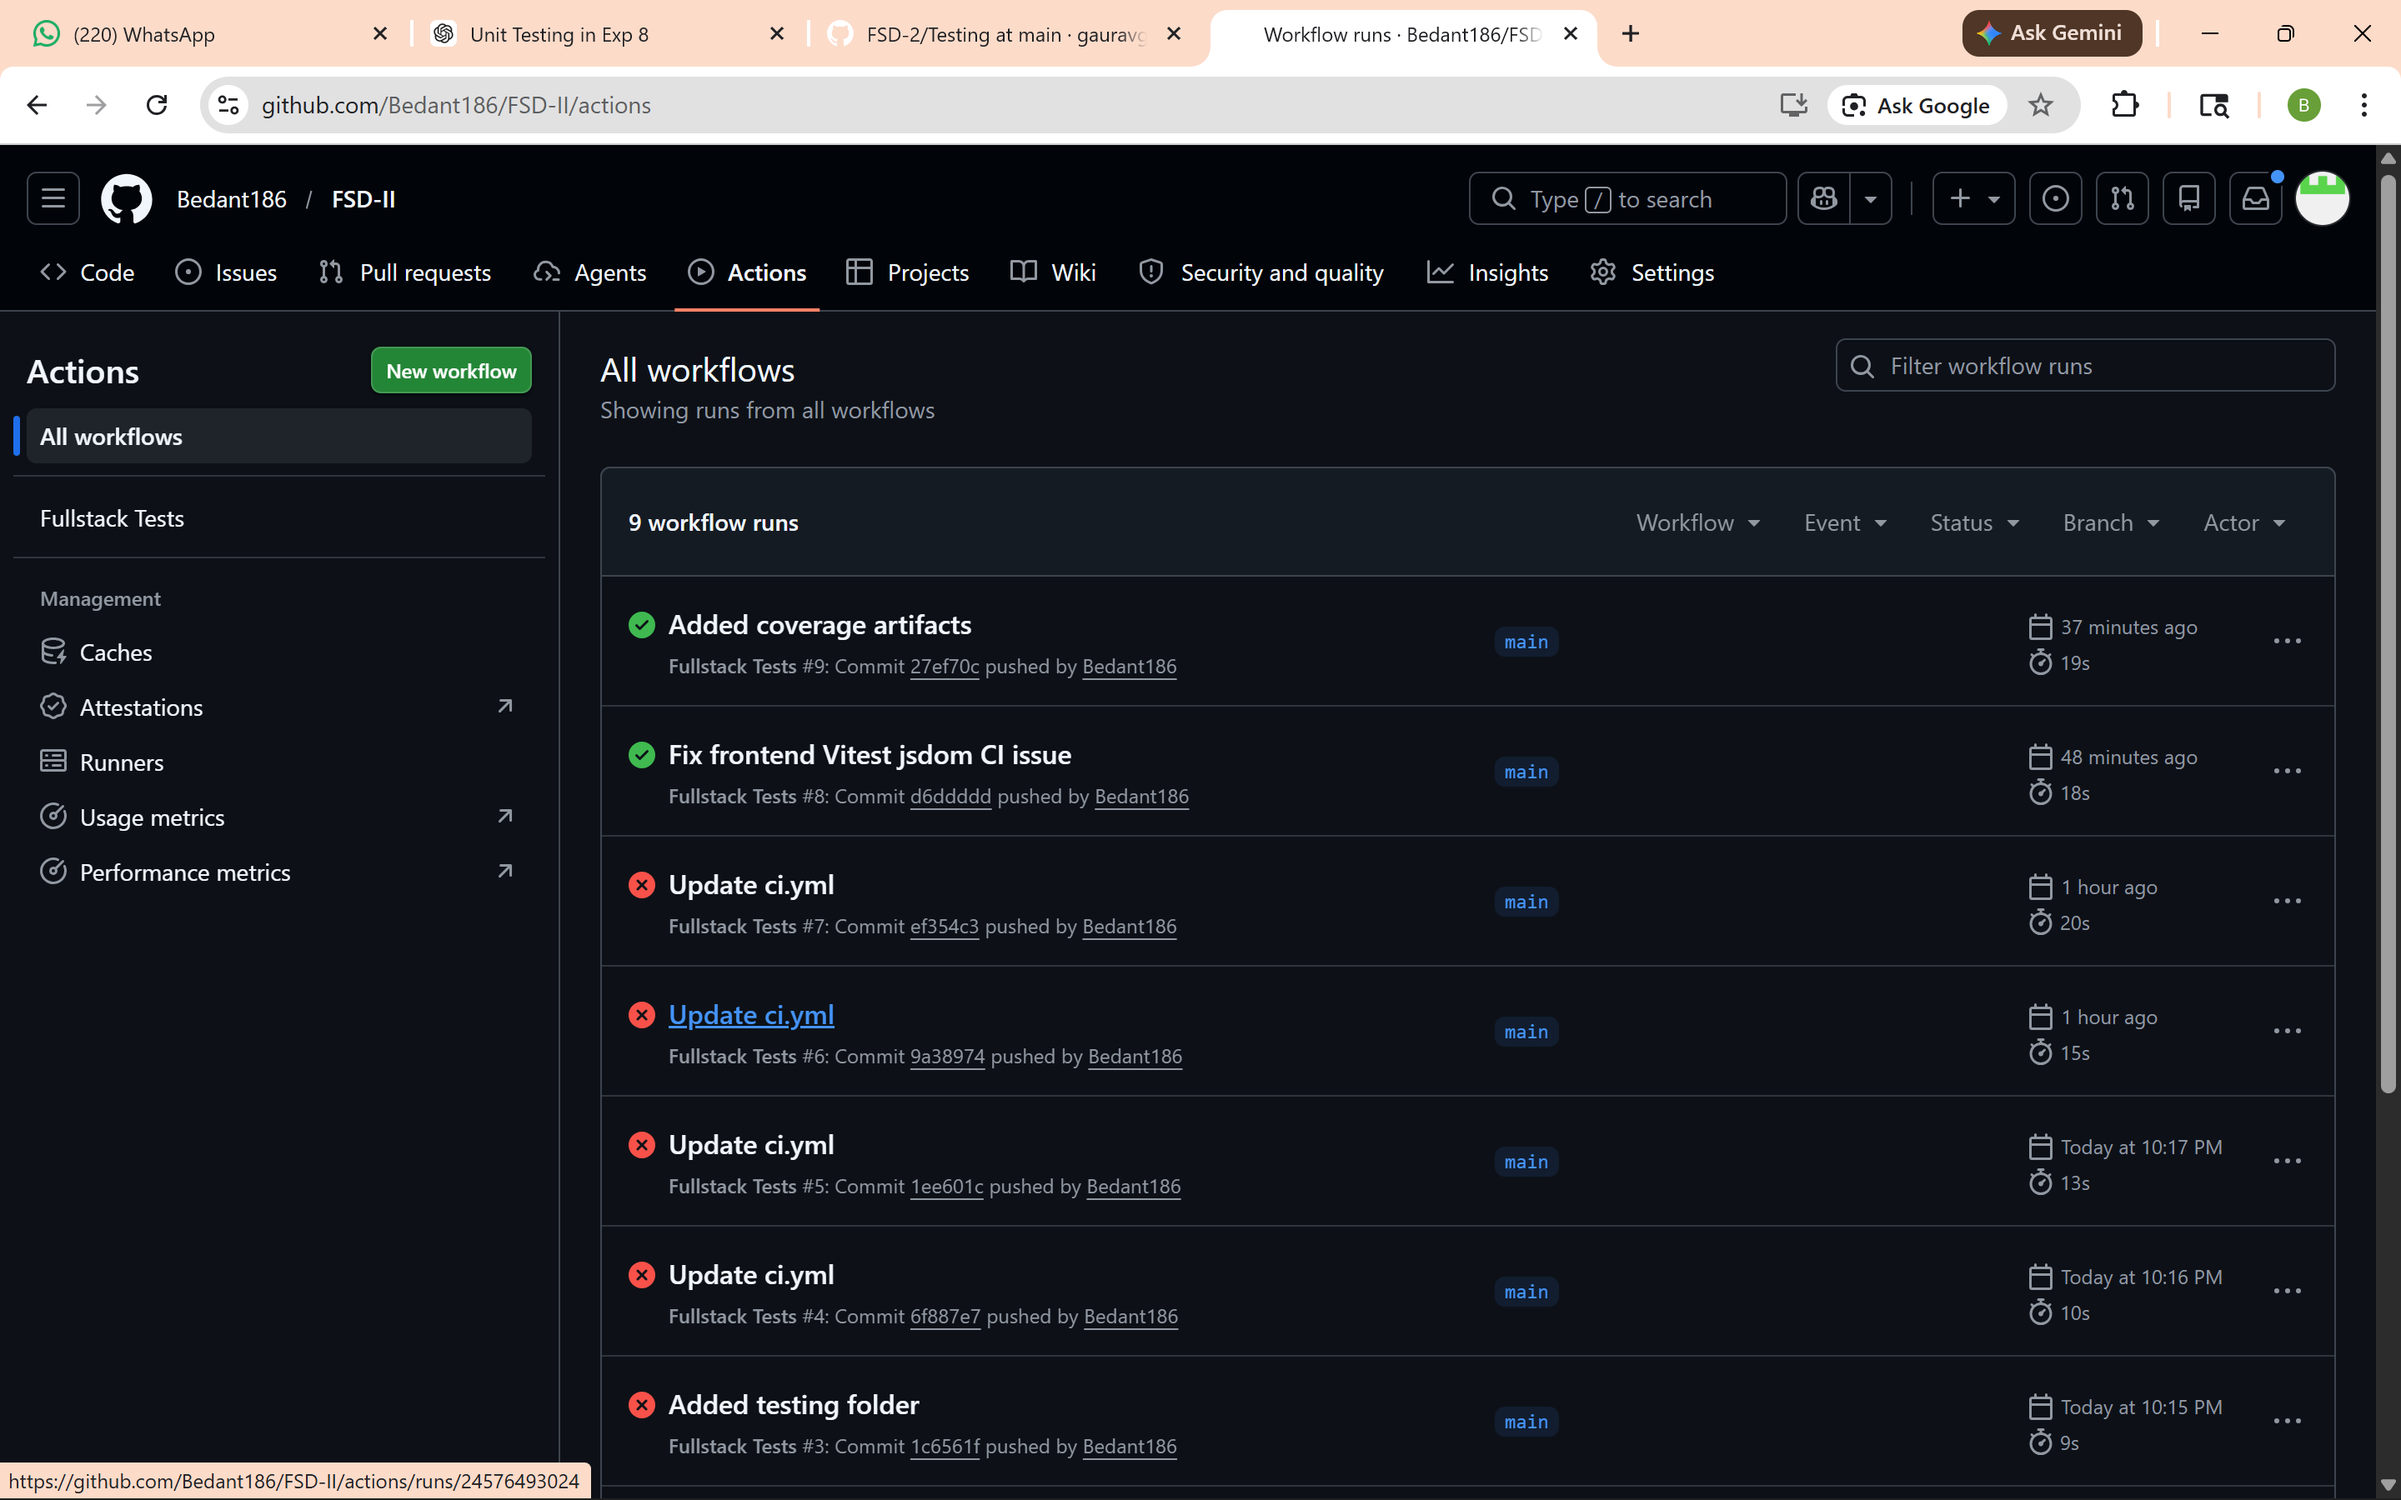
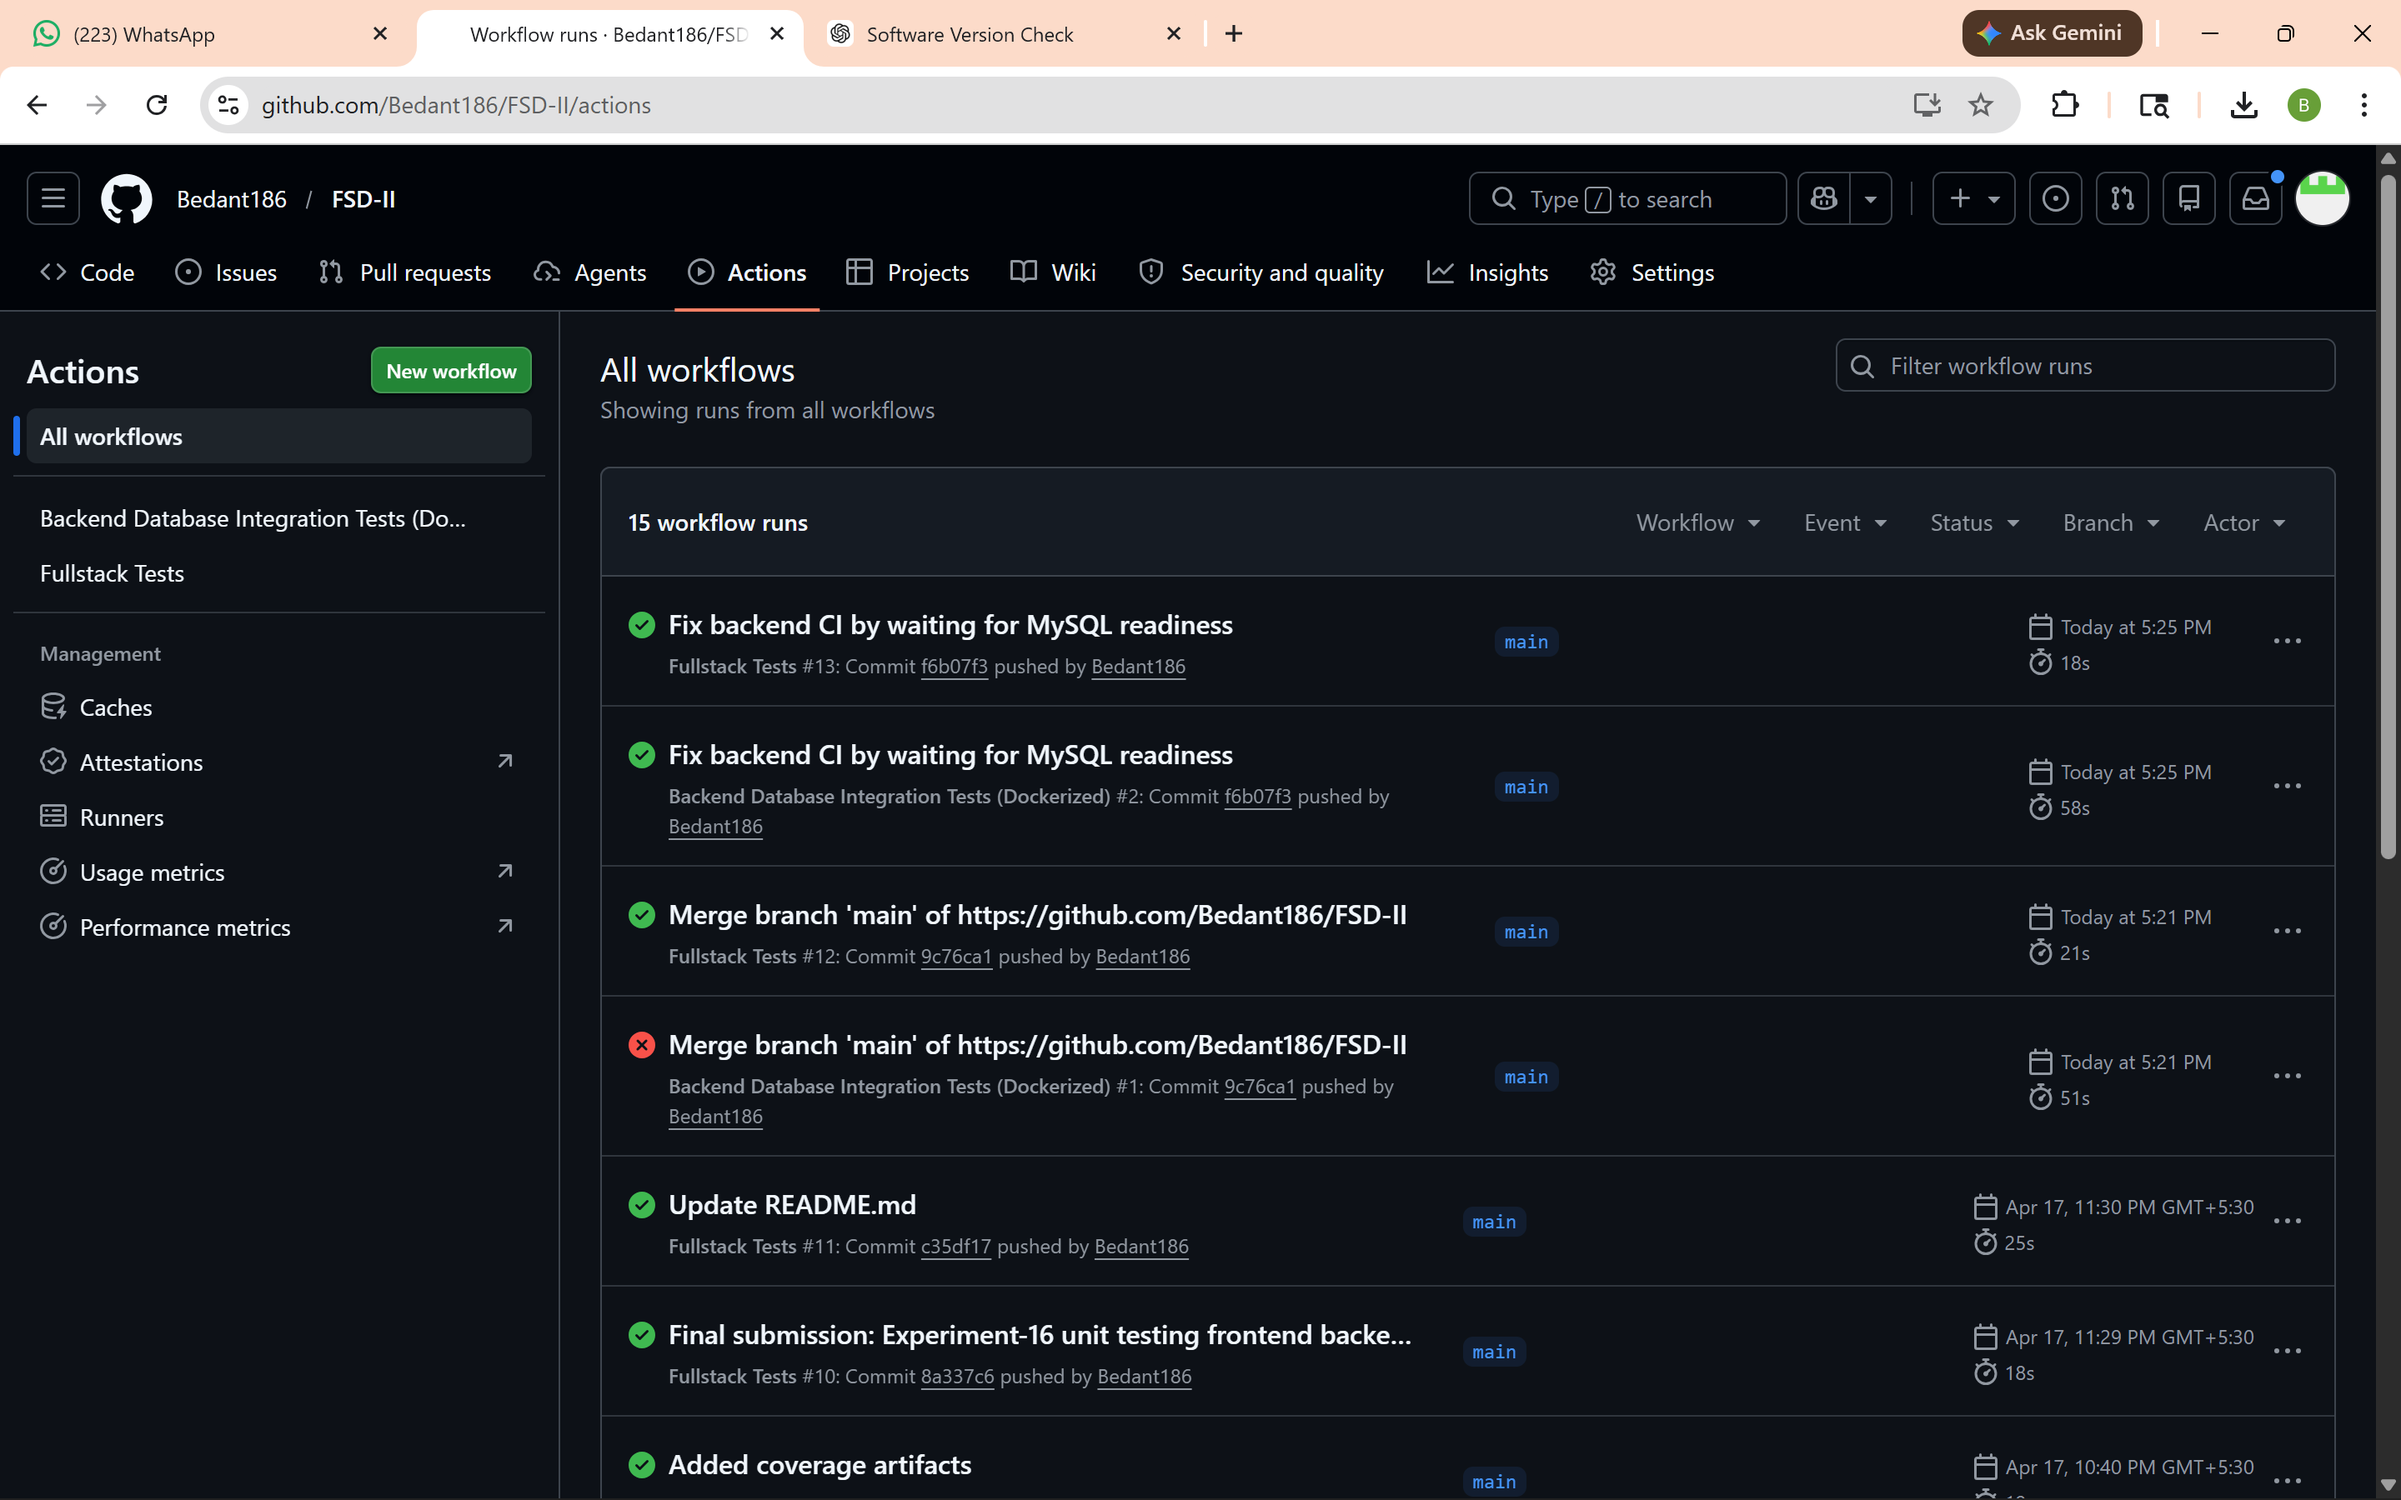
Experiment 20 CI/CD with Docker and GitHub Actions

diff --git a/Testing/README.md b/Testing/README.md
@@ -1,204 +1,220 @@
-# 📘 Experiment-16
+# 🚀 Experiment-20: Implement CI/CD Pipeline for Application Deployment
 
+## 📌 Experiment Details
+- **Experiment No.**: 20  
+- **Title**: Implement CI/CD pipeline for application deployment  
+- **Course**: Full Stack Development  
+- **Objective**: Integrate Continuous Integration and Continuous Deployment (CI/CD) using Docker, Docker Compose, and GitHub Actions  
+
+---
+
+# 🎯 Aim
+To design and implement a CI/CD pipeline that automates testing and deployment of a full-stack application using Docker containers and GitHub Actions.
+
+---
+
+# 🧠 Theory
+
+CI/CD stands for **Continuous Integration and Continuous Deployment**.  
+It is a DevOps practice that automates the process of building, testing, and deploying applications.
+
+- **CI (Continuous Integration)**: Automatically tests code whenever changes are pushed.
+- **CD (Continuous Deployment)**: Automatically prepares the application for deployment.
+
+In this experiment:
+- Backend is containerized using Docker.
+- MySQL database is integrated using Docker Compose.
+- Frontend and backend tests are automated using GitHub Actions.
+
+---
+
+# 🛠 Technologies Used
+
+- **Frontend**: React (Vite)
+- **Backend**: Flask (Python)
+- **Database**: MySQL
+- **Testing**:
+  - Backend: Pytest
+  - Frontend: Vitest
+- **DevOps Tools**:
+  - Docker
+  - Docker Compose
+  - GitHub Actions
+
+---
+
+# 🏗 Project Structure
+
+```text
+FSD-II/
+│
+├── Testing/
+│   ├── Backend/
+│   │   ├── app.py
+│   │   ├── test_app.py
+│   │   ├── requirements.txt
+│   │   ├── Dockerfile
+│   │
+│   ├── Frontend/
+│   │   ├── src/
+│   │   ├── package.json
+│   │   ├── Dockerfile
+│
+├── docker-compose.yml
+│
+└── .github/
+    └── workflows/
+        ├── cd.yml
+
+
+        # ⚙ Implementation Steps
+
+## 1⃣ Backend Setup
+- Created Flask APIs for student CRUD operations  
+- Connected backend to MySQL database using SQLAlchemy  
+- Implemented test cases using Pytest  
+
+---
+
+## 2⃣ Frontend Setup
+- Built React application using Vite  
+- Implemented form validation  
+- Tested using Vitest  
+
+---
+
+## 3⃣ Dockerization
+
+### 🔹 Backend Dockerfile
+- Created Docker image for backend  
+- Installed dependencies using `requirements.txt`  
+
+### 🔹 Frontend Dockerfile
+- Built React app inside Docker container  
+
+---
+
+## 4⃣ Docker Compose
+- Created `docker-compose.yml` to run:
+  - MySQL container  
+  - Backend container  
+- Configured environment variables  
+- Added health check for database readiness  
+
+---
+
+## 5⃣ CI/CD using GitHub Actions
+
+### 🔹 Backend Workflow
+- Builds Docker containers  
+- Runs backend tests using Pytest  
+
+### 🔹 Frontend Workflow
+- Installs dependencies  
+- Runs tests using Vitest  
+
+---
+
+# 🔁 CI/CD Workflow Flowchart
+
+```text
+Code Push → GitHub Actions Triggered
+            ↓
+      Backend Pipeline
+      - Build Docker Image
+      - Start MySQL Container
+      - Run Pytest
+            ↓
+      Frontend Pipeline
+      - Install Dependencies
+      - Run Vitest Tests
+            ↓
+        Results (PASS/FAIL)
+
+        # 📸 Screenshots
+
+
+
+## 🔄 GitHub Actions
+![GitHub Actions](screenshots/github-actions.png)
+
+## 🔄 GitHub Actions Workflow
+![GitHub Workflow](screenshots/workflow.png)
+
+## 🐳 Container
+![Docker Container](screenshots/docker-containers.png)
+
+## 🐳 Container backend
+![Docker Container](screenshots/docker-backend.png)
+
+## 🐳 Container frontend
+![Docker Container](screenshots/docker-frontend.png)
+
+## 🐳 Docker Image Creation
+![Docker Image](screenshots/docker-build.png)
+
+## 🐳 Running Container
+![Running Container](screenshots/docker-running.png)
+
+## ⚙ Docker Compose Execution
+![Docker Compose](screenshots/docker-compose.png)
 
 
 ---
 
-##  Title  
-**Perform Unit Testing for Frontend and Backend Modules**
+# 📊 Results
+
+- Backend tests executed successfully inside Docker container  
+- Frontend tests executed successfully using Vitest  
+- CI/CD pipeline successfully automated using GitHub Actions  
 
 ---
 
-##  Aim  
-To perform unit testing on backend APIs using **pytest** and on frontend form components using **Vitest**, and automate testing using **GitHub Actions**.
+# 🎯 Learning Outcomes
+
+- Understood CI/CD concepts and their importance  
+- Learned Docker containerization  
+- Implemented multi-container setup using Docker Compose  
+- Automated testing using GitHub Actions  
+- Solved real-world issue of service dependency (DB readiness)  
+- Integrated frontend and backend testing pipelines  
 
 ---
 
-## 📖 Theory  
+# 🧠 Key Concepts Learned
 
-Unit Testing is a software testing technique where individual components or modules are tested independently.
-
-### 🔹 Backend Testing (pytest)
-- Pytest is a Python testing framework.
-- Used to test Flask APIs.
-- Flask test client simulates HTTP requests.
-- Validates:
-  - Status codes
-  - API responses
-  - Error handling
-
-### 🔹 Frontend Testing (Vitest)
-- Vitest is used for testing React (Vite) apps.
-- Works with React Testing Library.
-- Tests:
-  - Form rendering
-  - User input
-  - Validation logic
-  - Submit functionality
-
-### 🔹 Code Coverage
-- Coverage shows how much code is tested.
-- Tools used:
-  - Backend → `pytest-cov`
-  - Frontend → `Vitest coverage`
-
-### 🔹 Continuous Integration (CI)
-- GitHub Actions automates testing.
-- Runs tests on every push.
-- Ensures code quality.
+- Containerization  
+- Service orchestration  
+- Automated testing  
+- DevOps workflow automation  
+- Continuous Integration pipelines  
 
 ---
 
-## ⚙ Technologies Used  
+# 🧪 Sample Commands Used
 
-- Python (Flask)
-- Pytest
-- Pytest-Cov
-- React (Vite)
-- Vitest
-- React Testing Library
-- GitHub Actions
-- Node.js
-- Material UI
-
----
-
-##  Functional Requirements  
-
-### Backend
-- Create API
-- Read API
-- Update API
-- Delete API
-
-### Frontend
-- Form rendering
-- Input validation
-- Submit handling
-
----
-
-##  Testing Implementation  
-
-### Backend Testing
-- Tested APIs using pytest
-- Verified:
-  - Status codes (200, 201, 404)
-  - JSON response
-  - Error handling
-
-### Frontend Testing
-- Tested form using Vitest
-- Covered:
-  - Empty input
-  - Invalid email
-  - Password validation
-  - Checkbox validation
-  - Successful submission
-
----
-
-##  Coverage  
-
-### Backend Coverage
 ```bash
-pytest --cov=app --cov-report=html
+docker build -t testing-backend ./Testing/Backend
+docker run -d -p 8000:8000 testing-backend
+docker compose up --build
+git push origin main
 
-```
-```
-##  📁 Project Structure
+# 🏁 Conclusion
 
-Testing/
-│
-├── experiment-6/ # Frontend (React + Vitest)
-│ ├── coverage/ # Coverage report (Vitest)
-│ ├── public/
-│ ├── src/
-│ │ ├── assets/
-│ │ ├── components/
-│ │ │ ├── Form.jsx
-│ │ │ └── Form.test.jsx
-│ │ ├── App.css
-│ │ ├── App.jsx
-│ │ ├── index.css
-│ │ ├── main.jsx
-│ │ └── setupTests.js
-│ ├── index.html
-│ ├── package.json
-│ ├── package-lock.json
-│ ├── vite.config.js
-│ └── README.md
-│
-├── Experiment-8/ # Backend (Flask + Pytest)
-│ ├── htmlcov/ # Coverage report (pytest-cov)
-│ ├── routes/
-│ ├── app.py
-│ ├── run.py
-│ ├── test_app.py
-│ ├── requirements.txt
-│ └── README.md
-│
-├── screenshots/ # Screenshots for submission
-│ ├── workflow-success.png
-│ ├── backend-tests.png
-│ ├── frontend-tests.png
-│ └── coverage-report.png
-│
-└── README.md # Main README (Experiment-16)
-
-```
-
-## 🔗 GitHub Repository  
-
-Project Code Available At:  
-https://github.com/Bedant186/FSD-II/tree/main/Testing  
-
-## Screenshots  
-
-###  Workflow Execution
-![GitHub Actions Workflow](./screenshots/workflow.png)
-
-![GitHub Actions](./screenshots/actions.png)
-
-
-### Backend Tests (pytest)
-![Backend Tests](./screenshots/backend-tests.png)
-
-### Frontend Tests (Vitest)
-![Frontend Tests](./screenshots/frontend-tests.png)
-
-### Coverage Reports
-![Backend Coverage Report](./screenshots/Bcover.png)
-
-![Frontend Coverage Report](./screenshots/Fcover.png)
-
-
+In this experiment, we successfully implemented a CI/CD pipeline using Docker and GitHub Actions.  
+The backend and frontend were tested automatically upon code push, ensuring reliability and efficiency.  
+This approach reflects real-world DevOps practices used in modern software development.
 
 ---
 
-## Learning Outcomes  
+# 👨💻 Author
 
-- Understood the concept of **Unit Testing** for both backend and frontend  
-- Learned how to test **Flask APIs using pytest**  
-- Learned how to test **React forms using Vitest and Testing Library**  
-- Gained knowledge of **code coverage tools** (`pytest-cov`, `Vitest coverage`)  
-- Learned to automate testing using **GitHub Actions (CI/CD)**  
-- Improved debugging, validation, and testing skills  
-- Understood importance of testing in real-world software development  
+**Name**: Bedant Singhania  
+**Course**: B.E. CSE (Big Data Analytics)  
+**University**: Chandigarh University  
 
 ---
 
-##  Conclusion  
+# 🔗 GitHub Repository
 
-In this experiment, unit testing was successfully implemented for both backend and frontend modules.  
-Backend APIs were tested using **pytest**, while frontend form validation was tested using **Vitest**.  
-Code coverage tools helped identify untested areas and improve test completeness.  
-GitHub Actions enabled automated testing, ensuring continuous integration and reliability of the application.  
-
----
-
-## 👤 Author  
-
-**Bedant Singhania**  
-B.E. CSE (Big Data Analytics)  
-Chandigarh University  
+👉 https://github.com/Bedant186/FSD-II/tree/main/Testing
